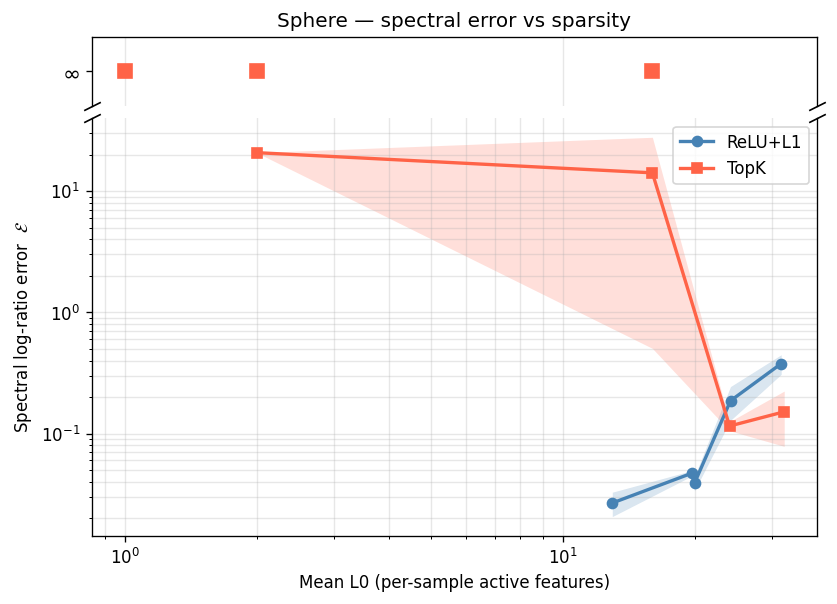
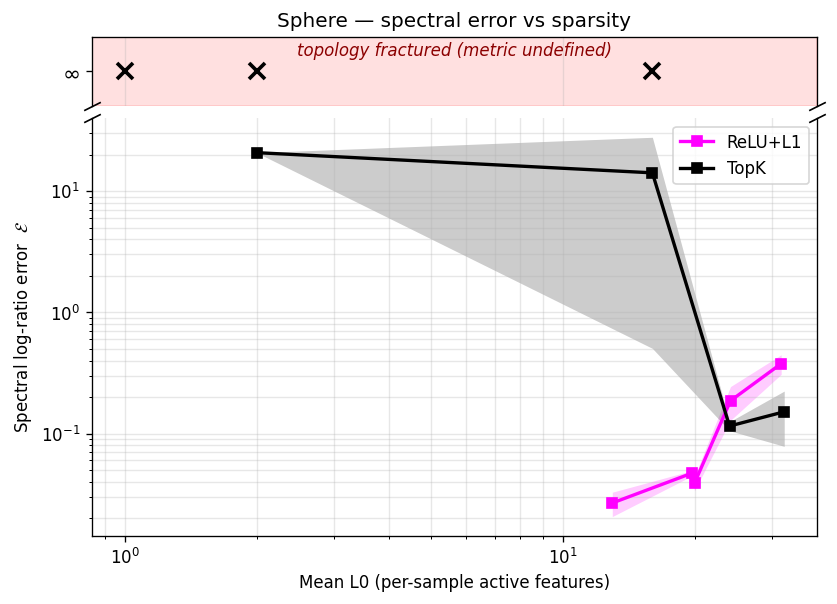
make spectral error plots more informative

diff --git a/sae_topology/analysis/plot.py b/sae_topology/analysis/plot.py
@@ -394,8 +394,8 @@ def plot_spectral_error_vs_sparsity(
         ``arch, mean_l0, mean_l0_std, n_seeds_diverged``.
     """
     arch_style = {
-        'relu_l1': dict(color='steelblue', label='ReLU+L1', marker='o'),
-        'topk':    dict(color='tomato',    label='TopK',    marker='s'),
+        'relu_l1': dict(color='magenta', label='ReLU+L1', marker='s'),
+        'topk':    dict(color='black',   label='TopK',    marker='s'),
     }
 
     has_diverged = bool(diverged_rows)
@@ -440,8 +440,8 @@ def plot_spectral_error_vs_sparsity(
             x = np.array([r['mean_l0'] for r in sub])
             y = np.ones_like(x)
             line, = ax_top.plot(
-                x, y, style['marker'],
-                color=style['color'], ms=8,
+                x, y, 'x',
+                color=style['color'], ms=10, mew=2.2,
                 label=style['label'] if arch not in legend_handles else None,
             )
             if arch not in legend_handles:
@@ -450,6 +450,13 @@ def plot_spectral_error_vs_sparsity(
         ax_top.set_yticks([1.0])
         ax_top.set_yticklabels([r'$\infty$'], fontsize=13)
         ax_top.set_ylim(0.55, 1.45)
+        ax_top.axhspan(0.55, 1.45, color='red', alpha=0.12, zorder=0)
+        ax_top.text(
+            0.5, 0.93,
+            'topology fractured (metric undefined)',
+            transform=ax_top.transAxes, ha='center', va='top',
+            fontsize=10, color='darkred', fontstyle='italic',
+        )
         # Hide spines between subplots and place break marks.
         ax_top.spines['bottom'].set_visible(False)
         ax_bot.spines['top'].set_visible(False)
